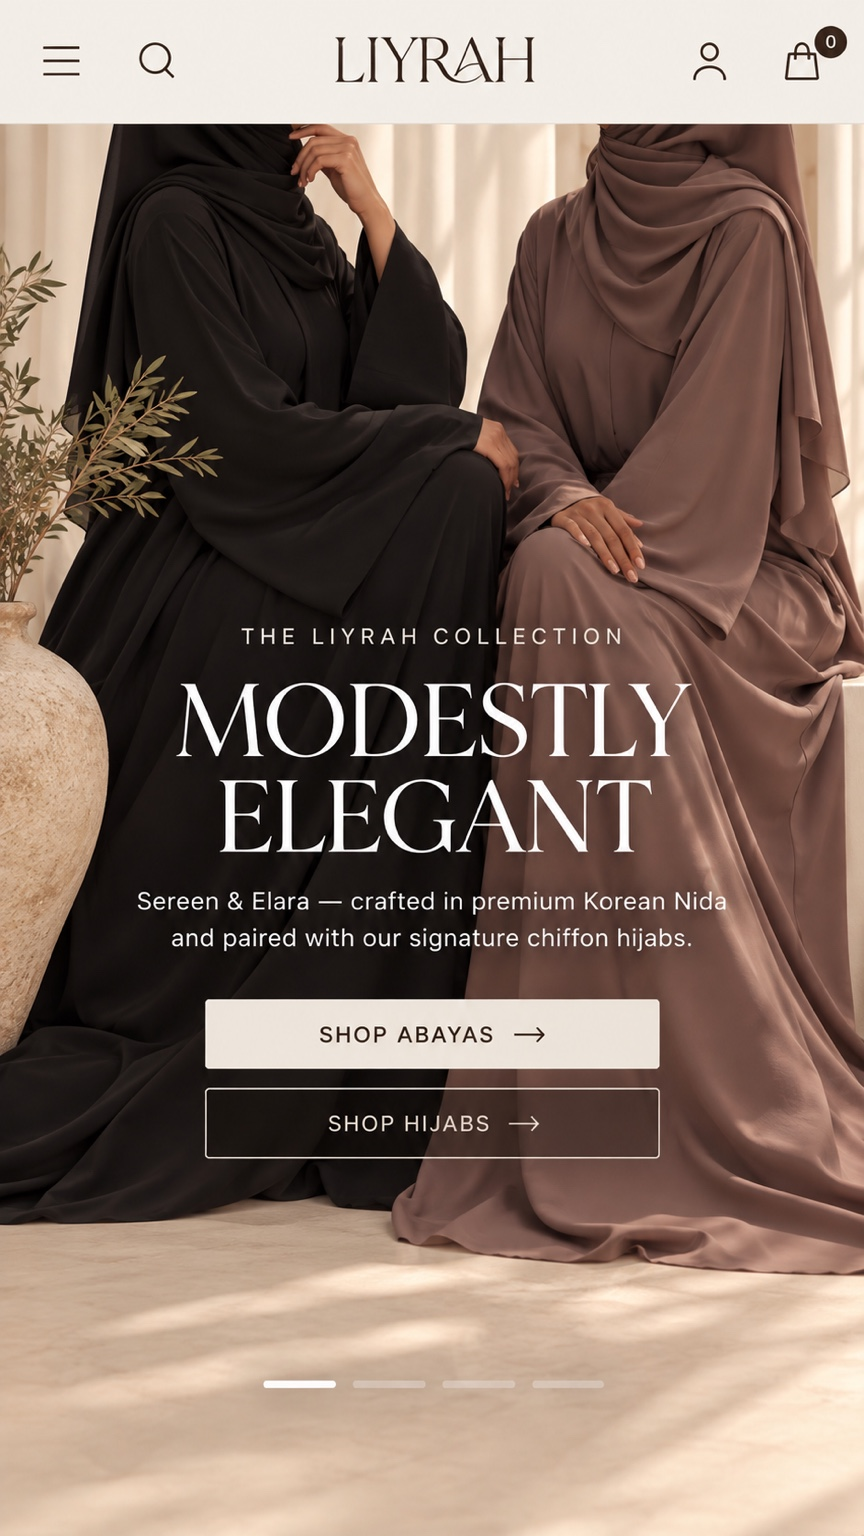
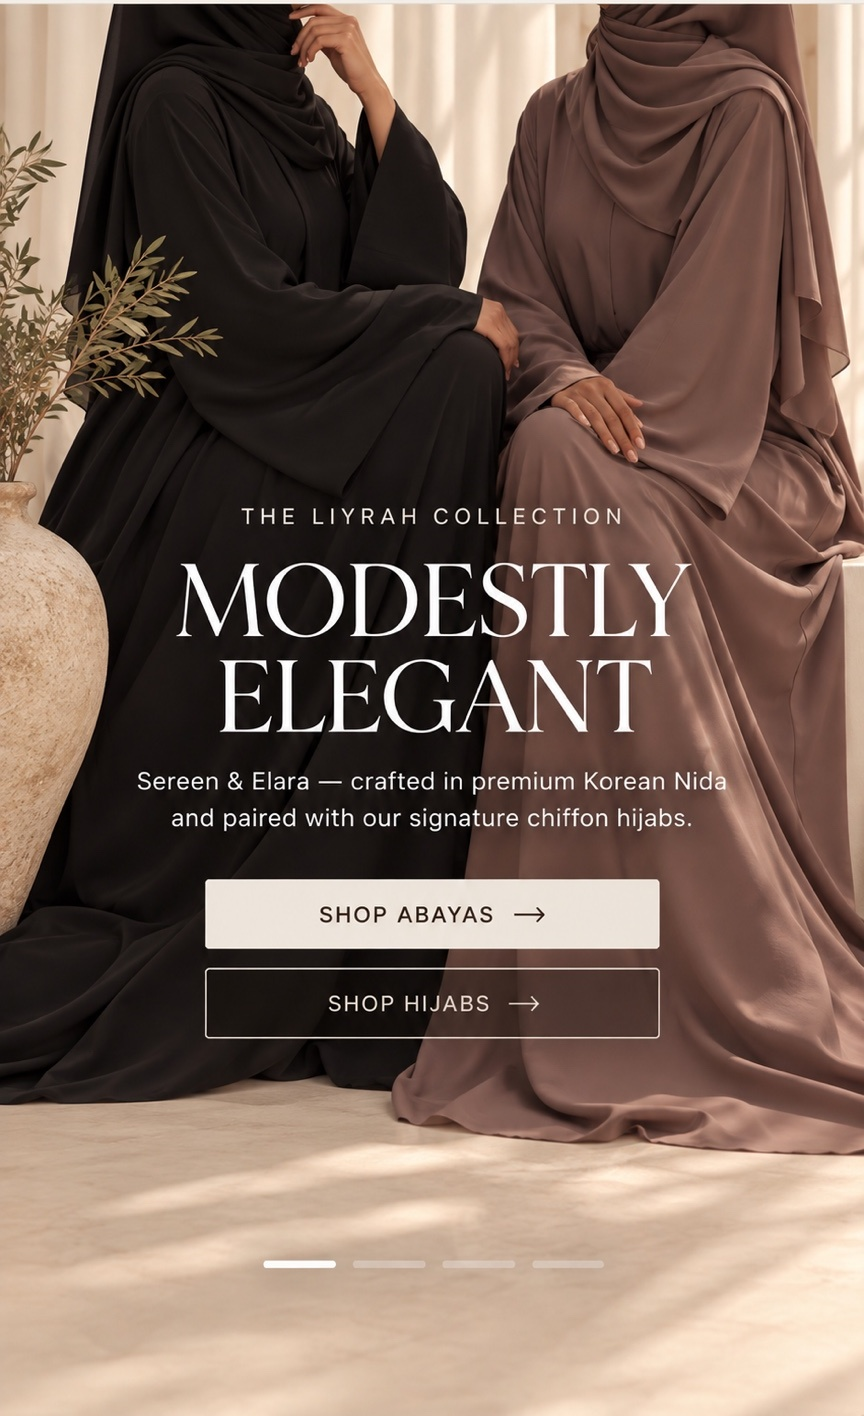
Add files via upload

diff --git a/index.html b/index.html
@@ -46,6 +46,38 @@ footer{background:var(--brown);color:#f6eee8;padding:42px 0;text-align:center}.f
 .hero-actions .btn.alt{background:rgba(54,35,28,.28);color:#fff;border:1px solid rgba(255,255,255,.9)}
 @media(max-width:520px){.hero{min-height:calc(100svh - 81px)!important;background-position:center top!important}.hero-copy{padding:44px 18px 64px!important}.hero h1{font-size:58px!important}.hero p{font-size:14px!important}}
 </style>
+
+<style>
+.hero{
+  position:relative!important;
+  min-height:0!important;
+  height:auto!important;
+  aspect-ratio:864/1416!important;
+  width:100%!important;
+  background-image:url("images/liyrah-homepage-hero.jpg")!important;
+  background-size:100% 100%!important;
+  background-position:center center!important;
+  background-repeat:no-repeat!important;
+  align-items:flex-start!important;
+}
+.hero-copy{
+  position:absolute!important;
+  inset:0!important;
+  justify-content:flex-start!important;
+  padding:clamp(70px,18vw,280px) 24px 60px!important;
+}
+@media(max-width:520px){
+  .hero{
+    min-height:0!important;
+    aspect-ratio:864/1416!important;
+    background-size:100% 100%!important;
+    background-position:center center!important;
+  }
+  .hero-copy{
+    padding:clamp(110px,31vw,190px) 18px 42px!important;
+  }
+}
+</style>
 </head>
 <body>
 <div class="announce">Liyrah — Modestly Elegant · Shipping Across Canada</div>
